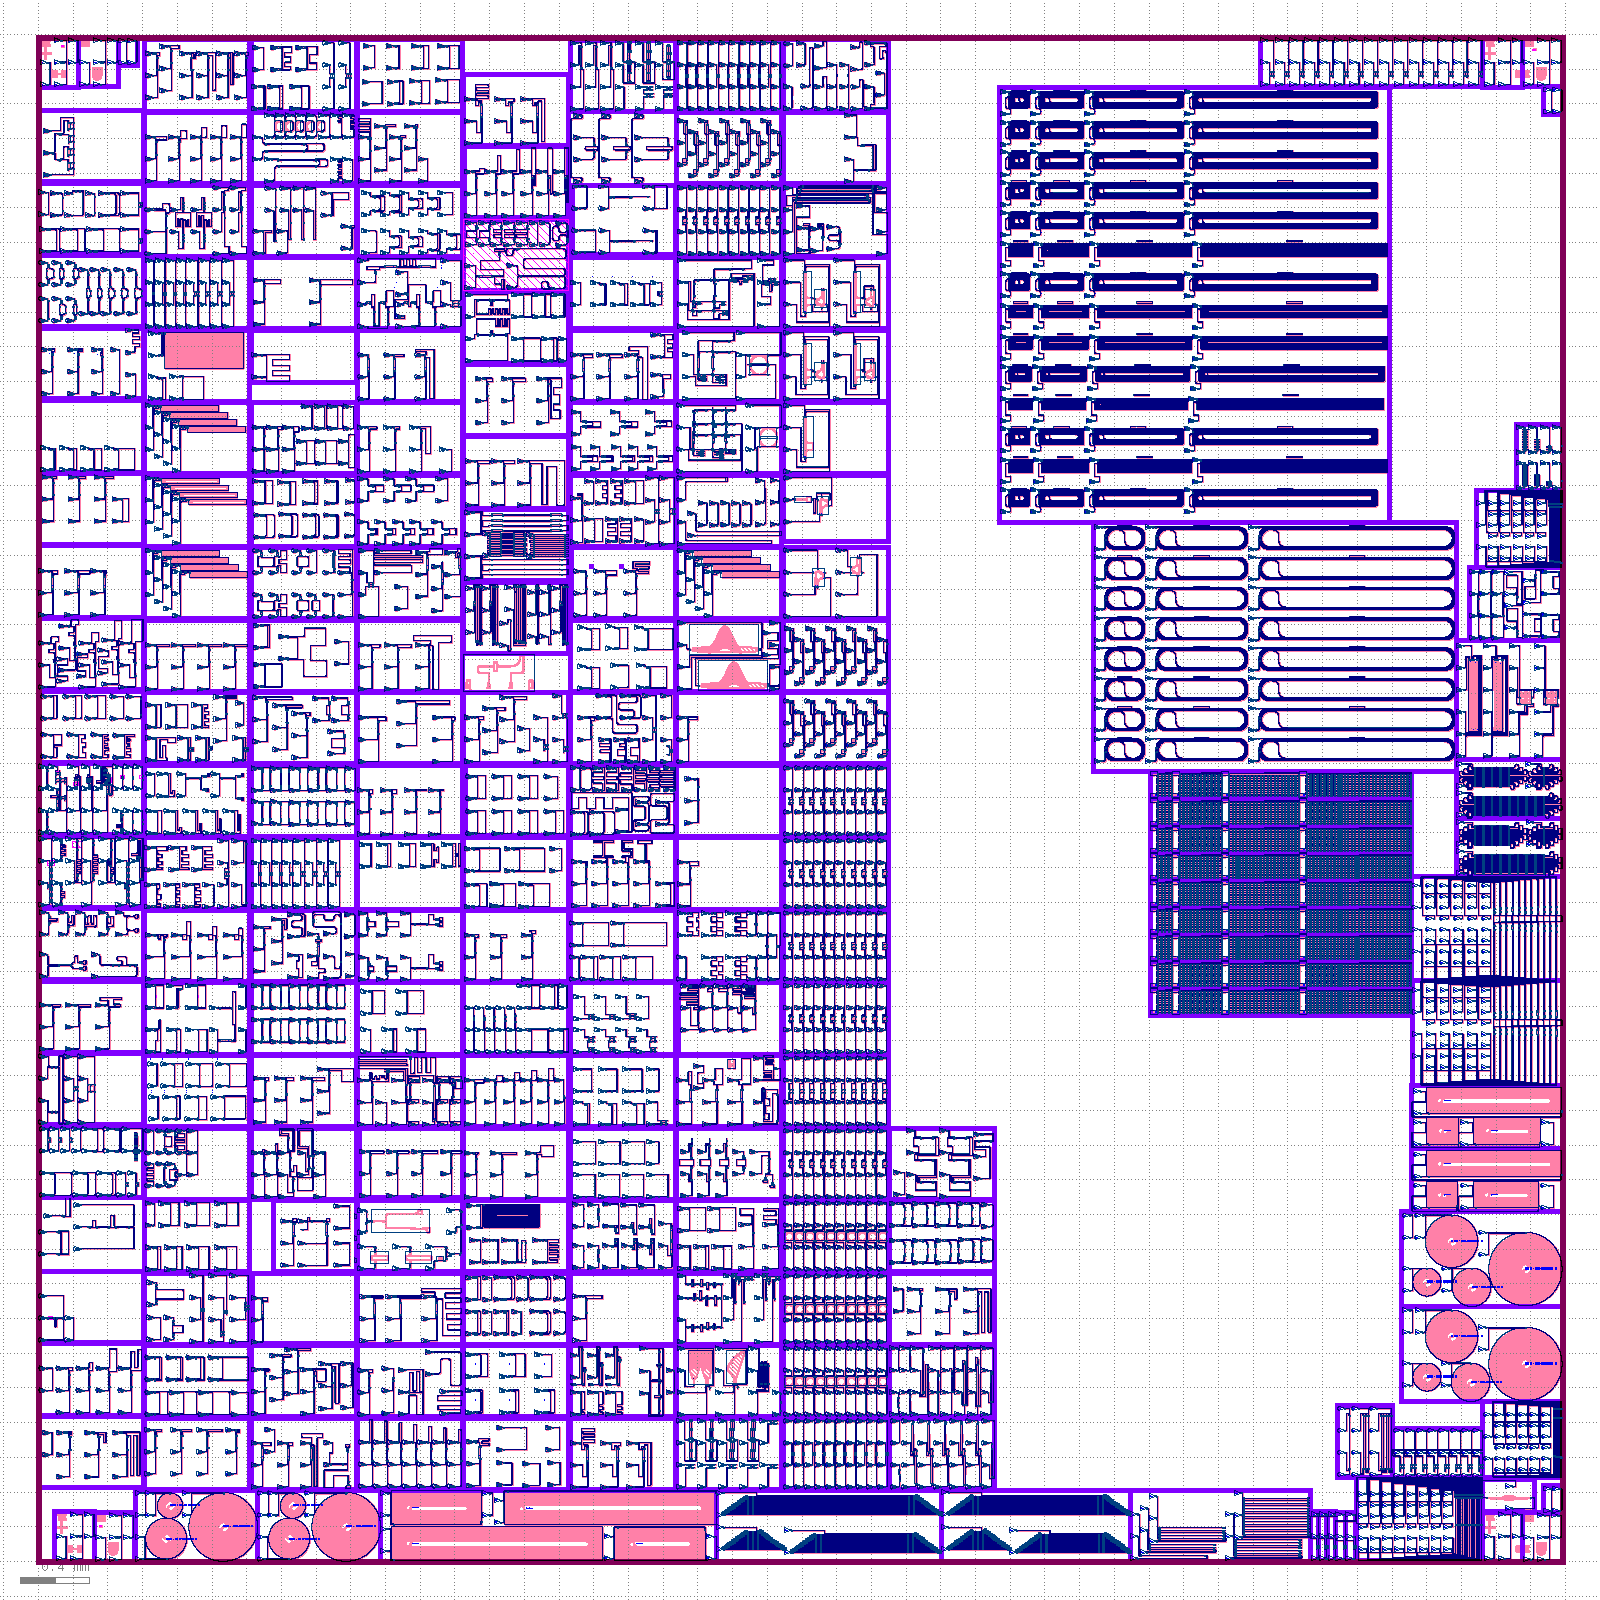
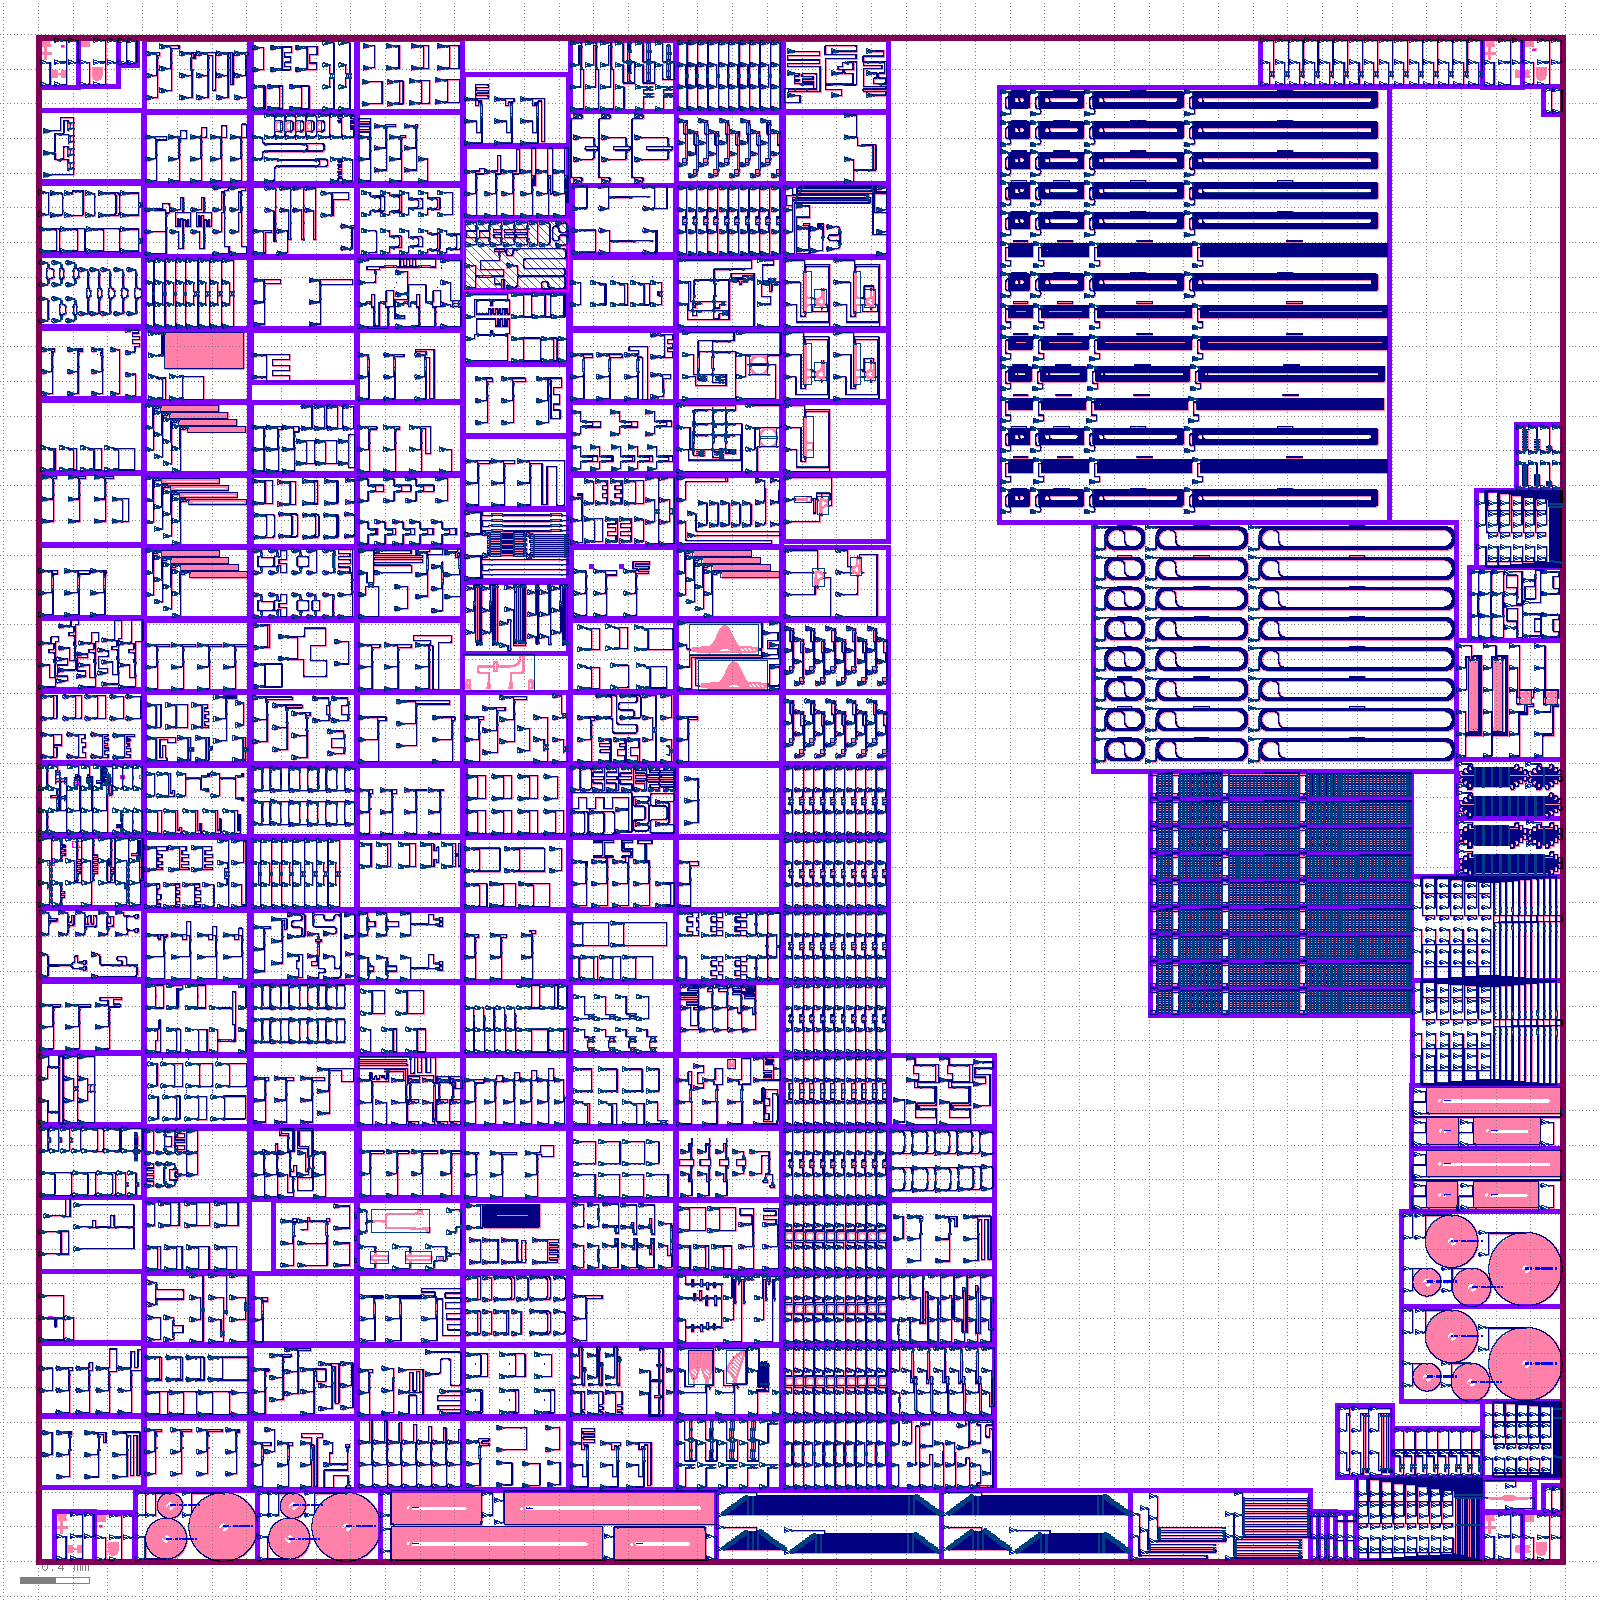
Aggregation layout: https://github.com/SiEPIC/openEBL-2026-10/actions/runs/38796954287/artifacts/12001724462

Changed region(s): [[0.5625, 0.6562, 0.625, 0.9375], [0.4688, 0.0312, 0.5625, 0.0625]]

diff --git a/README.md b/README.md
@@ -103,5 +103,5 @@ The verification and merging is performed using GitHub actions. The repository i
 
 Click on the following link to download the EBeam.oas merged layout file:
 <!-- start-link -->
-https://github.com/SiEPIC/openEBL-2026-10/actions/runs/38794587042/artifacts/12002285224
+https://github.com/SiEPIC/openEBL-2026-10/actions/runs/38796954287/artifacts/12001724462
 <!-- end-link -->
